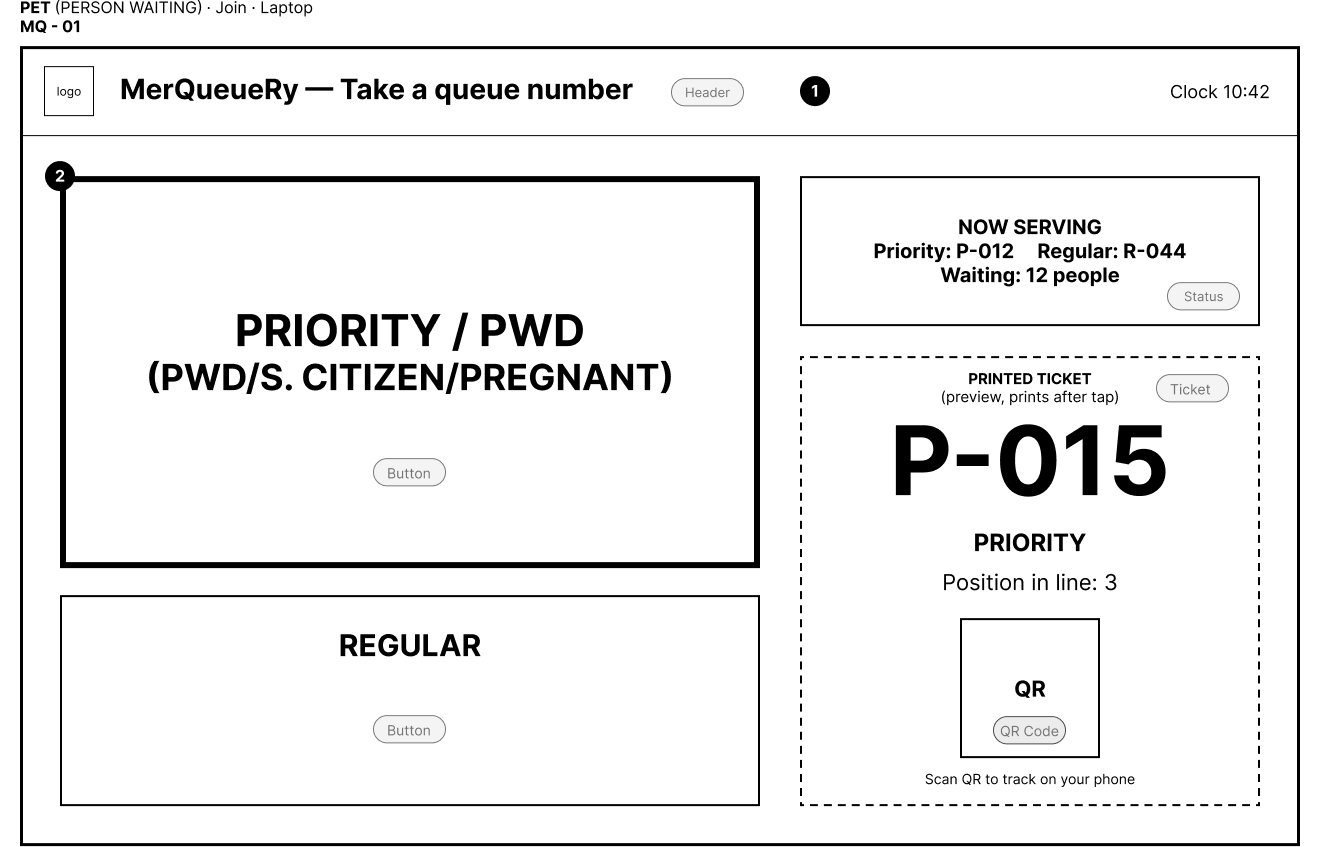
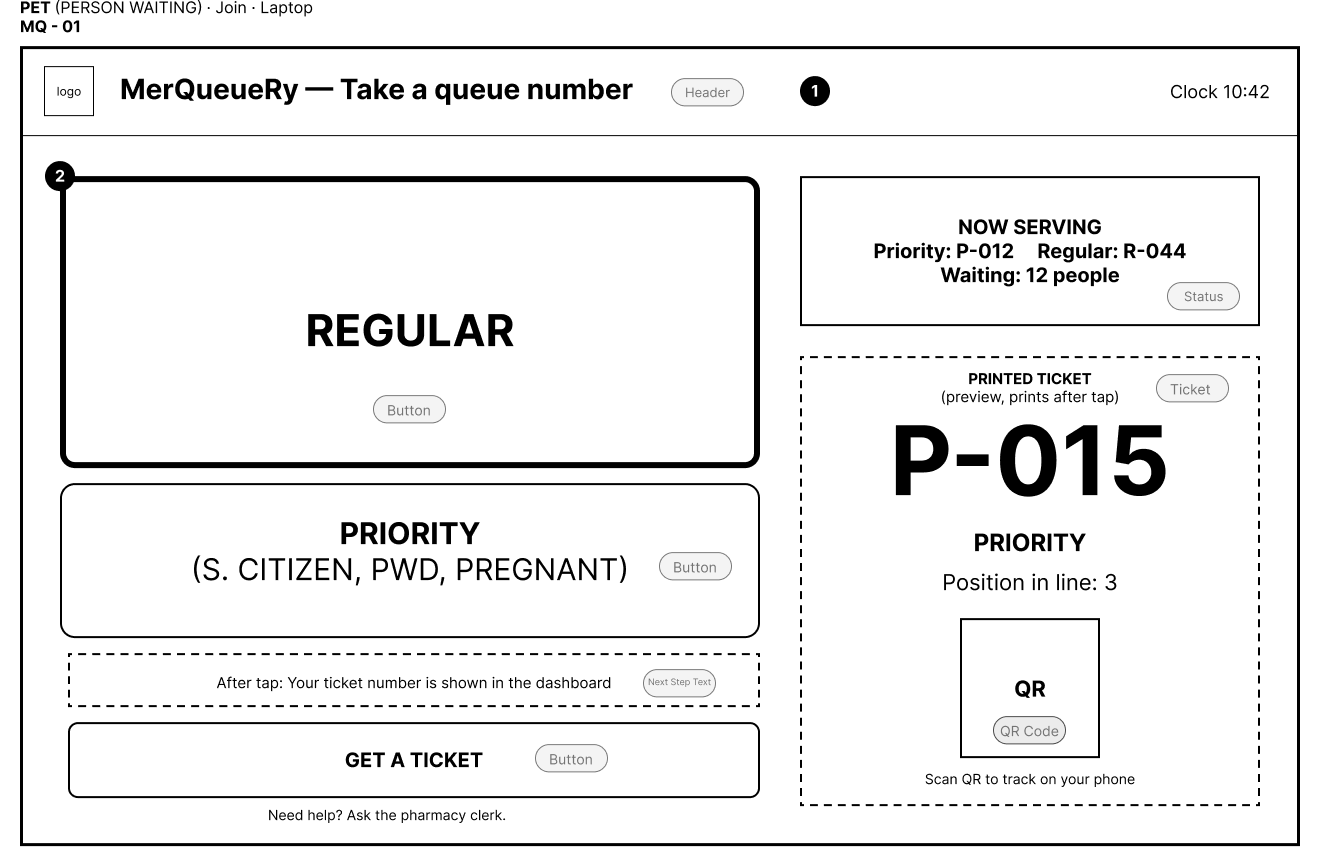
Join form with validation +  wireframe changes + feedback edit

diff --git a/templates/join.html b/templates/join.html
@@ -1,0 +1,34 @@
+{% extends "base.html" %}
+{% block title %}Join the queue · YourApp{% endblock %}
+
+{% block content %}
+<div class="row justify-content-center">
+  <div class="col-12 col-md-8 col-lg-6">
+    <h1 class="h3 mb-3">Join the queue</h1>
+
+    <form method="post" action="{{ url_for('join') }}" novalidate id="join-form">
+    <div class="mb-3">
+        <div class="d-grid gap-2">
+            {% for s in services %}
+            <input type="radio" class="btn-check" name="service_id"
+                    id="service-{{ s.service_id }}" value="{{ s.service_id }}"
+                    autocomplete="off"
+                    {% if form.get('service_id') == s.service_id|string %}checked{% endif %}>
+
+            <label class="btn {% if s.service_id == 1 %}btn-outline-primary btn-lg py-4{% else %}btn-outline-primary btn-sm py-2{% endif %}"
+                    for="service-{{ s.service_id }}">{{ s.name }}</label>
+            
+            {% endfor %}
+        </div>
+        {% if errors and errors.service_id %}
+            <div class="text-danger small mt-2">{{ errors.service_id }}</div>
+        {% endif %}
+    </div>
+
+      <label>After tap: Your ticket number is shown in the dashboard</label>  
+
+      <button type="submit" class="btn btn-primary w-100">Get a ticket</button>
+    </form>
+  </div>
+</div>
+{% endblock %}

diff --git a/app.py b/app.py
@@ -13,16 +13,15 @@ app.secret_key = "dev-only-change-me"
 TICKETS = [
     {"number": 1001, "service_id": 1, "status": "waiting"},
     {"number": 2001, "service_id": 2, "status": "in service"},
-    {"number": 3001, "service_id": 3, "status": "done"},
+    {"number": 3001, "service_id": 1, "status": "done"},
     {"number": 1001, "service_id": 1, "status": "waiting"},
     {"number": 2001, "service_id": 2, "status": "in service"},
 ]
 
 
 SERVICES = [
-    {"service_id": 1, "name": "Buy a medicine"},
-    {"service_id": 2, "name": "Buy with a prescription"},
-    {"service_id": 3, "name": "Priority service"}
+    {"service_id": 1, "name": "Regular service"},
+    {"service_id": 2, "name": "Priority service"}
 ]
 
 
@@ -39,13 +38,35 @@ def ticket(ticket_id):
     # <int:ticket_id> only matches numbers, so /queue/abc returns 404.
     return render_template("ticket.html", ticket_id=ticket_id)
 
-@app.route("/join")
+
+@app.get("/join")
 def join_form():
-    return render_template("join.html")
+    return render_template("join.html", services=SERVICES, form={})
+
+
+@app.post("/join")
+def join():
+    form = request.form
+    service_id = form.get("service_id", type=int)
+
+    errors = {}
+    if service_id not in [s["service_id"] for s in SERVICES]:
+        errors["service_id"] = "Choose a service."
+
+    if errors:
+        flash("Please fix the highlighted fields.", "danger")
+        return render_template("join.html", services=SERVICES, form=form, errors=errors), 400
+
+    number = TICKETS[-1]["number"] + 1 if TICKETS else 1
+    TICKETS.append({"number": number, "service_id": service_id, "status": "waiting"})
+    flash(f"You joined the queue. Your ticket is #{number}. Category: {next((s['name'] for s in SERVICES if s['service_id'] == service_id), 'Unknown')}", "success")
+    return redirect(url_for("ticket", ticket_id=number))
+
 
 @app.route("/staff")
 def staff_dashboard():
     return "Staff dashboard coming soon"
+
 
 @app.route("/hello")
 def hello():

diff --git a/docs/week3/feedback.md b/docs/week3/feedback.md
@@ -6,7 +6,7 @@ Screen 1 | Frames: join-phone, join-laptop
 
 **Problem:** Anyone can tap PWD / Priority, and there’s no way to undo it. A wrong tap prints a priority ticket in the wrong queue (error prevention).
 
-**Change (kept):** None. The clerk checks the ticket at the counter (MQA-02), so I’ll keep it this way.
+**Change (kept):** Instead of just doing one tap in the category button, i will put another button to proceed in the next part so they can change if they mistouch the priority button. Also, I will put the priority button below the regular button to lessen the human error. Even though the cashier can check the category.
 
 ---
 
